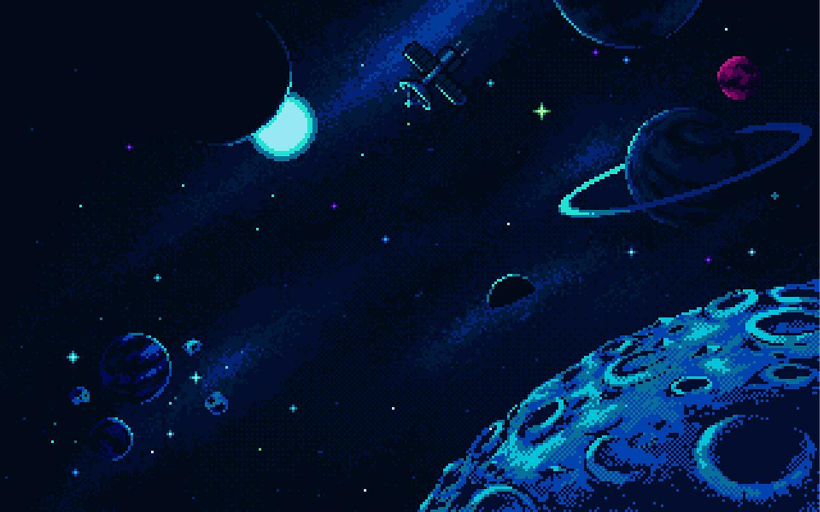
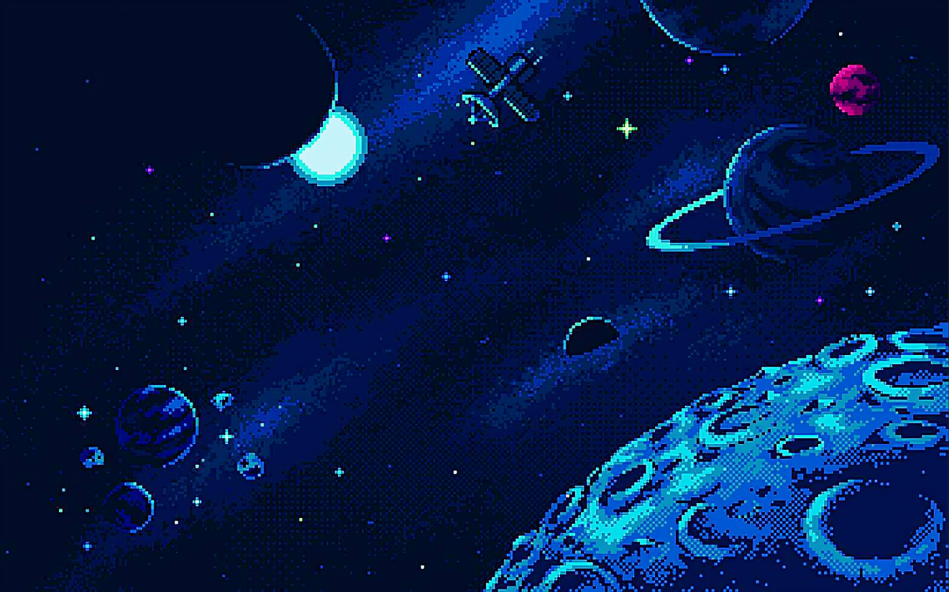
enhanced game bg, changed ClassicView and MiniView's background

diff --git a/src/views/ClassicView.vue b/src/views/ClassicView.vue
@@ -1,5 +1,5 @@
 <template>
-  <el-container>
+  <el-container class="classic-page">
     <el-header>
       <HomeButton @home="directToHome" />
       <UserBalance @wallet="directToWallet" />
@@ -179,15 +179,30 @@ function displayResult() {
 </script>
 
 <style scoped>
+.classic-page {
+  min-height: 100vh;
+  width: 100%;
+  background-image: url('@/assets/game-background.png');
+  background-size: cover;
+  background-repeat: no-repeat;
+  background-position: center;
+  background-attachment: fixed;
+  display: flex;
+  flex-direction: column;
+}
+
 .el-header {
   display: flex;
   justify-content: space-between;
   padding-top: 20px;
+  background: transparent;
 }
 
 .el-main {
   display: grid;
   place-items: center;
+  background: transparent;
+  flex: 1;
 }
 .drawn-numbers {
   display: flex;
@@ -201,15 +216,7 @@ function displayResult() {
   display: flex;
   gap: 10px;
 }
-.background {
-  height: 100vh;
-  width: 100%;
-  align-content: center;
-  background-image: url(src/assets/game-background.png);
-  background-position: center;
-  background-repeat: no-repeat;
-  background-size: cover;
-}
+
 
 .bounce-enter-active {
   animation: bounce-in 0.4s;

diff --git a/src/views/MiniView.vue b/src/views/MiniView.vue
@@ -1,5 +1,5 @@
 <template>
-  <el-container>
+  <el-container class="mini-page">
     <el-header>
       <HomeButton @home="directToHome" />
       <UserBalance @wallet="directToWallet" />
@@ -180,10 +180,23 @@ function displayResult() {
 </script>
 
 <style scoped>
+.mini-page {
+  min-height: 100vh;
+  width: 100%;
+  background-image: url('@/assets/game-background.png');
+  background-size: cover;
+  background-repeat: no-repeat;
+  background-position: center;
+  background-attachment: fixed;
+  display: flex;
+  flex-direction: column;
+}
+
 .el-header {
   display: flex;
   justify-content: space-between;
   padding-top: 20px;
+  background: transparent;
 }
 .el-alert {
   position: absolute;
@@ -194,6 +207,7 @@ function displayResult() {
 .el-main {
   display: grid;
   place-items: center;
+  background: transparent;
 }
 .grid-paytable-container {
   width: fit-content;
